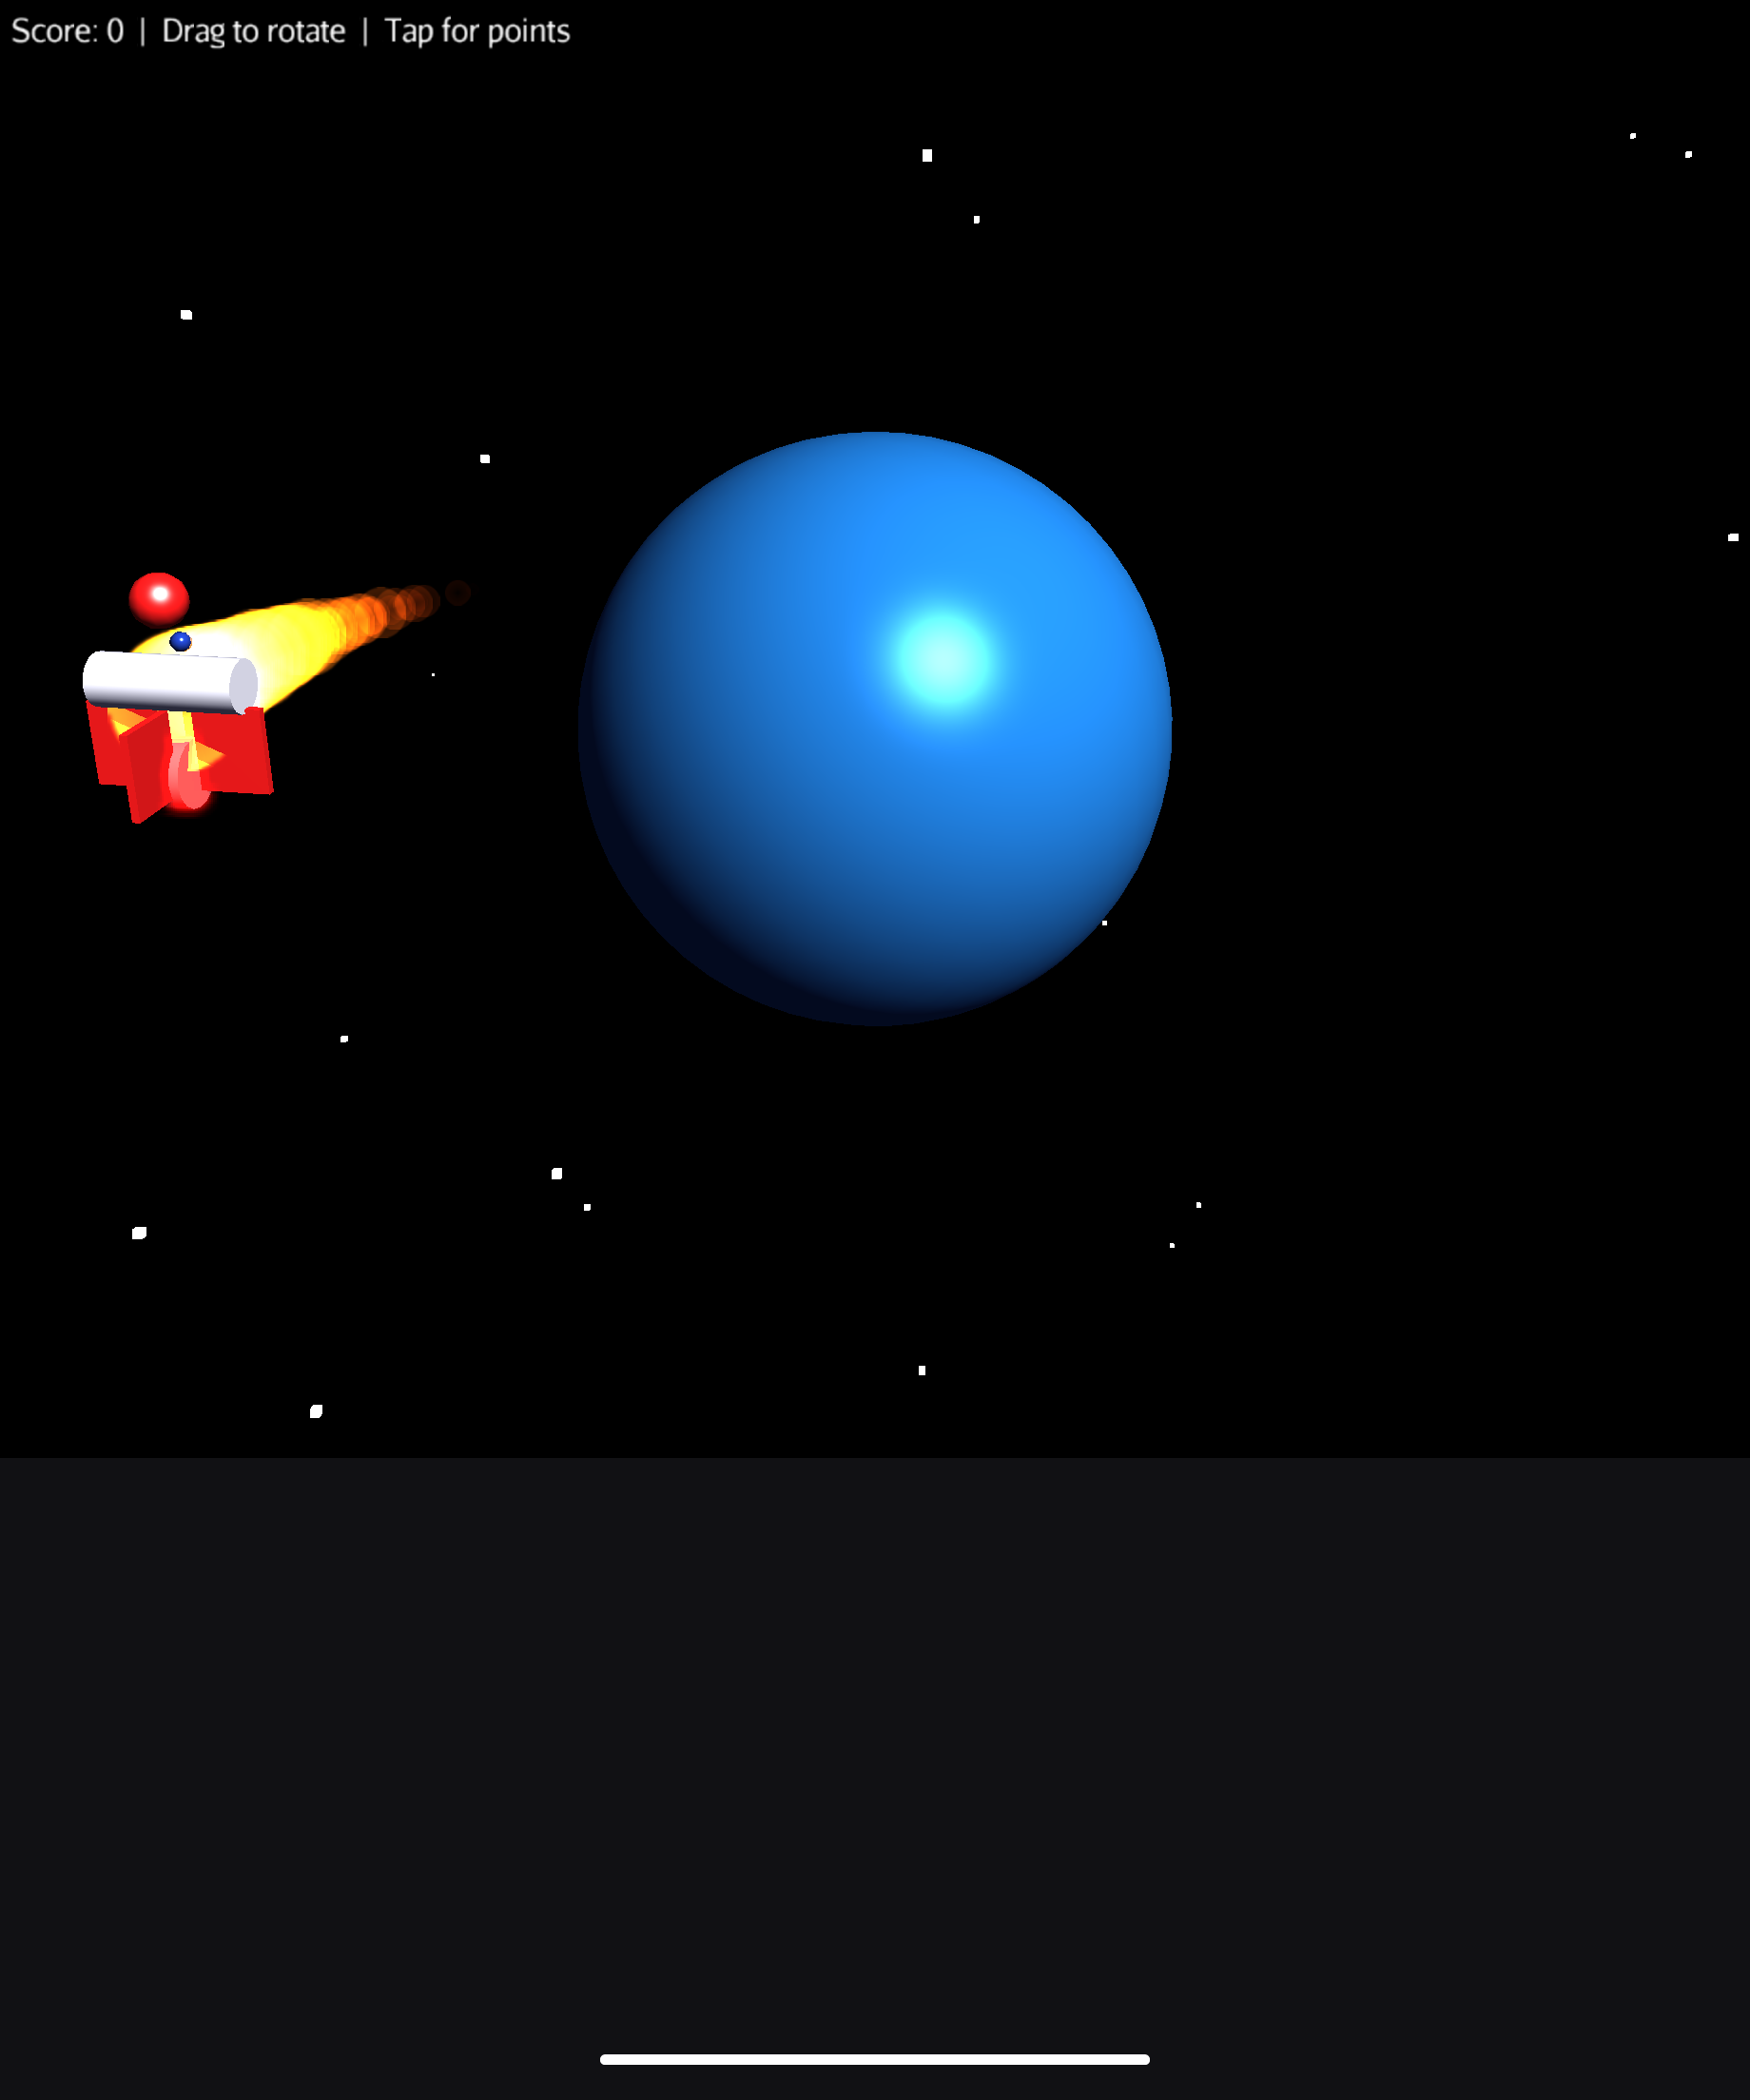
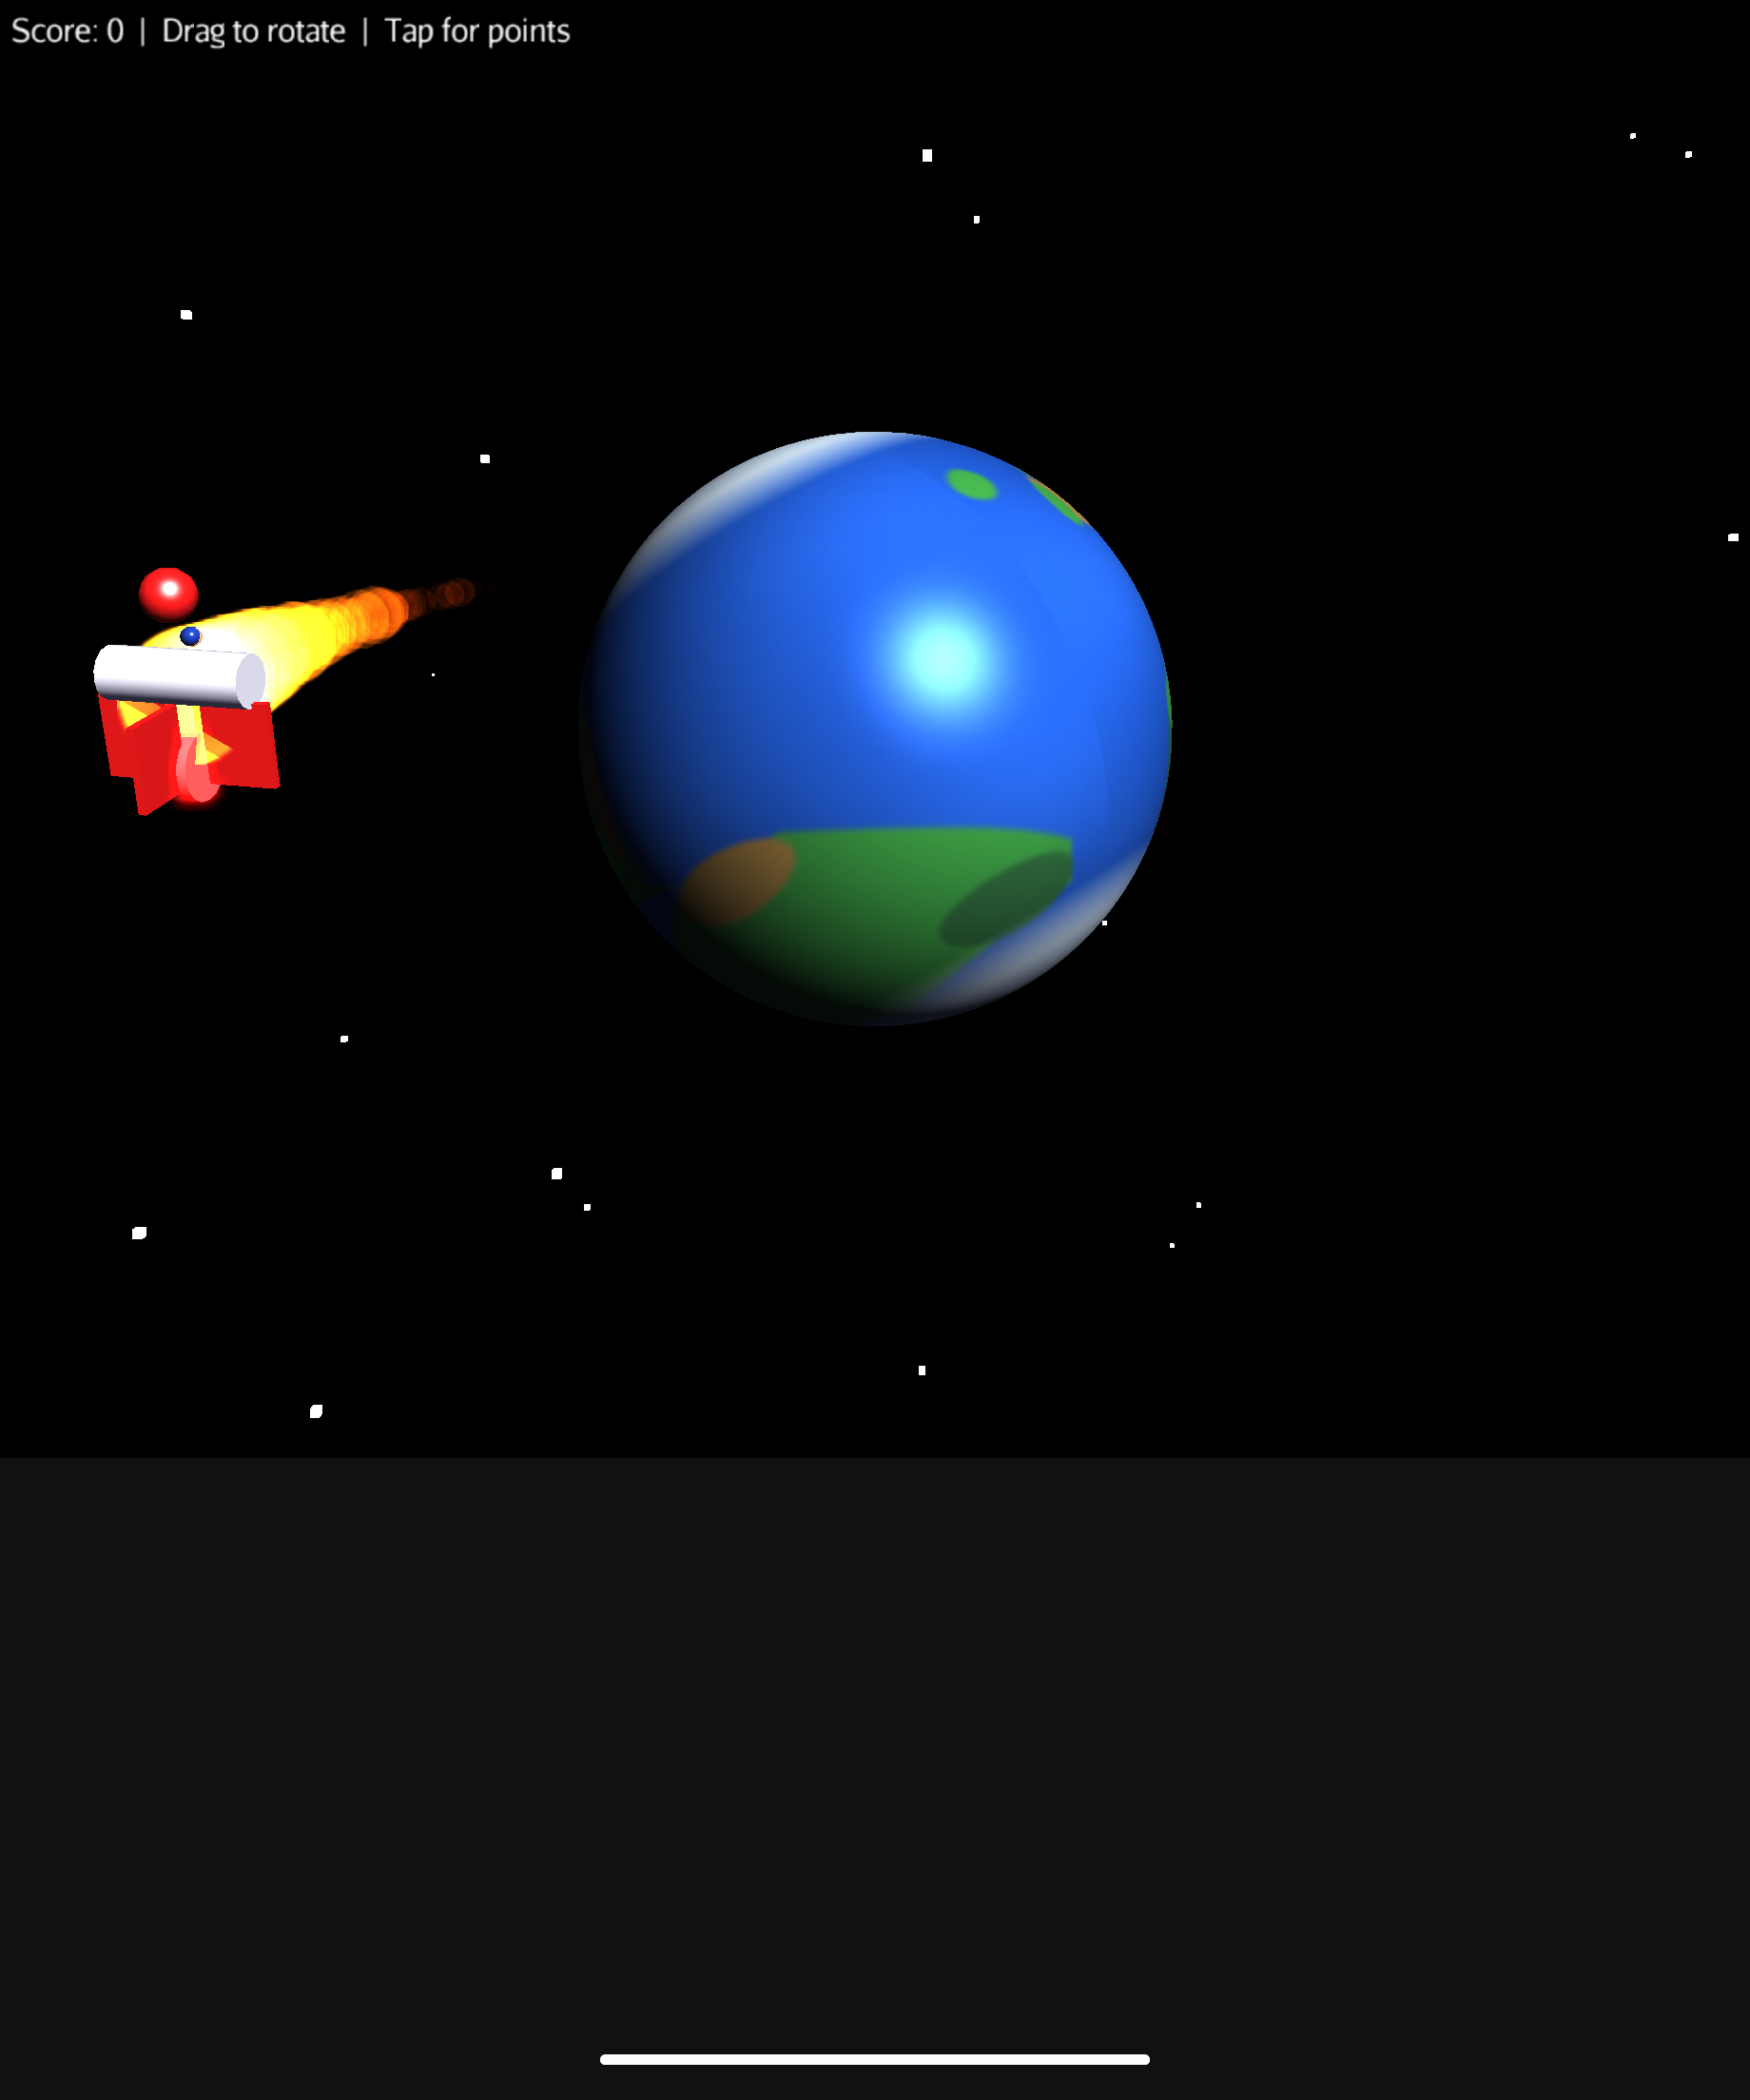
Add procedural Earth texture with continents and polar ice caps

Changed region(s): [[0.3408, 0.1875, 0.6815, 0.5], [0.031, 0.25, 0.2788, 0.4062], [0.3098, 0.3438, 0.3408, 0.375]]

diff --git a/app/src/main/java/com/example/jmegame/CubeGame.java b/app/src/main/java/com/example/jmegame/CubeGame.java
@@ -86,7 +86,6 @@ public class CubeGame extends SimpleApplication {
                     // Small movement = tap: award score and change color
                     if (totalDragDistance < TAP_THRESHOLD) {
                         score += 10;
-                        cycleCubeColor();
                     }
                     break;
 
@@ -140,14 +139,15 @@ public class CubeGame extends SimpleApplication {
         starBatch.batch(); // merges all children into a single mesh per material
         rootNode.attachChild(starBatch);
 
-        // Earth — smooth sphere with ocean-blue material
-        cube = new Geometry("Earth", new Sphere(32, 32, 1.0f));
+        // Earth — textured sphere; DiffuseMap drives colour, Specular adds ocean glint
+        cube = new Geometry("Earth", new Sphere(48, 48, 1.0f));
         Material mat = new Material(assetManager, "Common/MatDefs/Light/Lighting.j3md");
         mat.setBoolean("UseMaterialColors", true);
-        mat.setColor("Ambient",  new ColorRGBA(0.05f, 0.15f, 0.35f, 1f));
-        mat.setColor("Diffuse",  new ColorRGBA(0.10f, 0.40f, 0.65f, 1f));
-        mat.setColor("Specular", new ColorRGBA(0.40f, 0.60f, 0.90f, 1f));
-        mat.setFloat("Shininess", 80f);
+        mat.setColor("Ambient",  new ColorRGBA(0.30f, 0.30f, 0.30f, 1f));
+        mat.setColor("Diffuse",  ColorRGBA.White);
+        mat.setColor("Specular", new ColorRGBA(0.40f, 0.55f, 0.85f, 1f));
+        mat.setFloat("Shininess", 60f);
+        mat.setTexture("DiffuseMap", assetManager.loadTexture("Textures/earth.png"));
         cube.setMaterial(mat);
         rootNode.attachChild(cube);
 
@@ -326,12 +326,4 @@ public class CubeGame extends SimpleApplication {
         cube.setLocalRotation(rotY.mult(rotX).mult(cube.getLocalRotation()));
     }
 
-    private void cycleCubeColor() {
-        float hue = (score * 0.05f) % 1f;
-        cube.getMaterial().setColor("Diffuse", new ColorRGBA(
-                FastMath.sin(hue * FastMath.TWO_PI)         * 0.5f + 0.5f,
-                FastMath.sin(hue * FastMath.TWO_PI + 2.09f) * 0.5f + 0.5f,
-                FastMath.sin(hue * FastMath.TWO_PI + 4.19f) * 0.5f + 0.5f,
-                1f));
-    }
 }